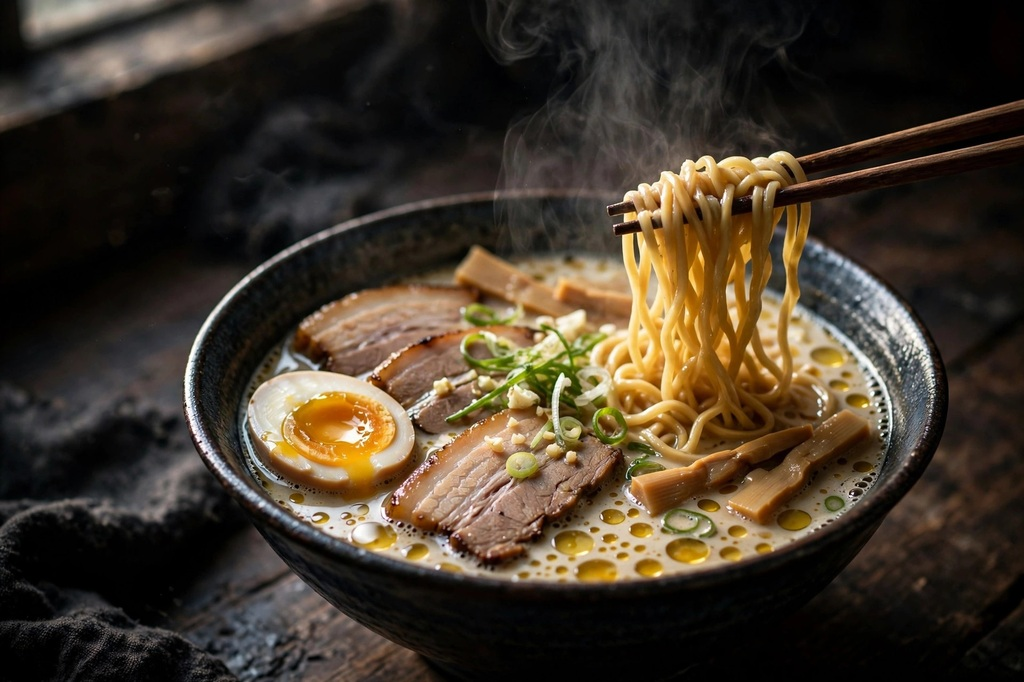
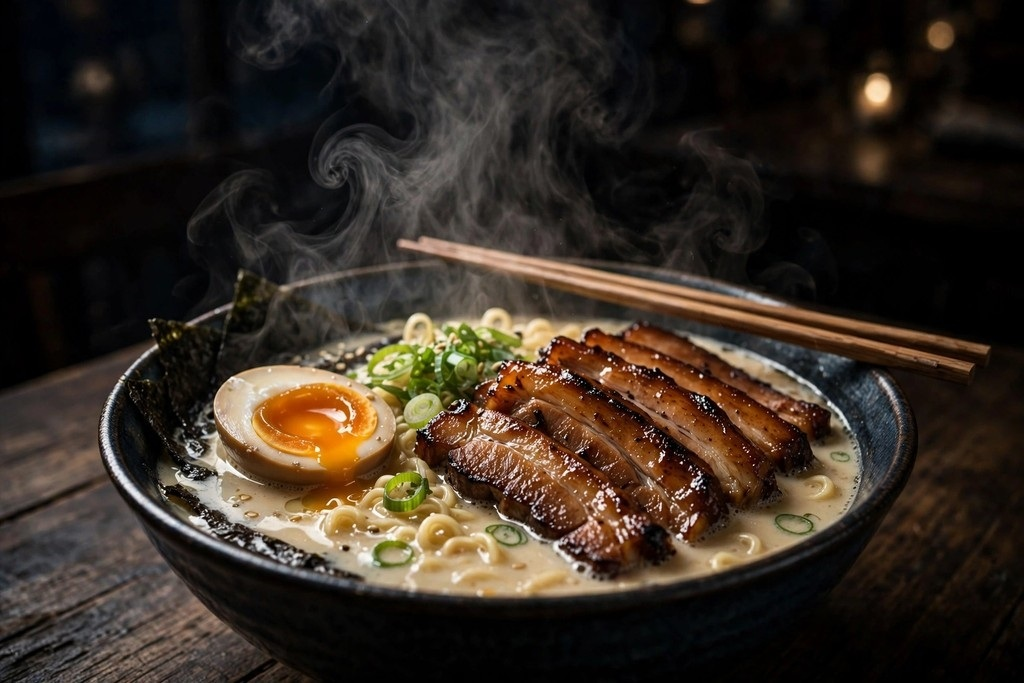
feat: richer ramen variant with chashu and runny egg

diff --git a/main.py b/main.py
@@ -1,8 +1,9 @@
 #!/usr/bin/env python3
-"""Entry for the make.fun "food-picture-01" image competition.
+"""make.fun competition entry: "food-picture-01".
 
-Ships the image bundled next to this file to the grader's writable /output
-directory. Standard library only: no network access, no third-party imports.
+Ships the ramen image bundled next to this file to the grader's writable
+/output directory, so the grader finds it at /output/entry.png.
+Standard library only: no network access, no third-party imports.
 """
 
 import os
@@ -20,24 +21,20 @@ def is_image(data):
     return data.startswith(IMAGE_SIGNATURES)
 
 
-def source_path():
-    """Absolute path of the bundled image, resolved from this file."""
+def entry_path():
+    """Absolute path of entry.png, resolved from this file via __file__."""
     return os.path.join(os.path.dirname(os.path.abspath(__file__)), IMAGE_NAME)
 
 
-def destination_paths():
-    """Candidate destinations, in order of importance."""
-    cwd = os.getcwd()
-    candidates = [
-        os.path.join(os.sep, "output", IMAGE_NAME),
-        os.path.join(cwd, IMAGE_NAME),
-        os.path.join(cwd, "output", IMAGE_NAME),
-    ]
-    ordered = []
-    for path in candidates:
-        if path not in ordered:
-            ordered.append(path)
-    return ordered
+_DESTINATION_CANDIDATES = (
+    # /output must be tried first: that is the path the grader reads the entry from.
+    os.path.join(os.sep, "output", IMAGE_NAME),
+    os.path.join(os.getcwd(), IMAGE_NAME),
+    os.path.join(os.getcwd(), "output", IMAGE_NAME),
+)
+
+# Same order as _DESTINATION_CANDIDATES, duplicates dropped.
+DESTINATIONS = tuple(dict.fromkeys(_DESTINATION_CANDIDATES))
 
 
 def write_payload(path, data):
@@ -58,7 +55,7 @@ def write_payload(path, data):
 
 def main():
     try:
-        with open(source_path(), "rb") as handle:
+        with open(entry_path(), "rb") as handle:
             data = handle.read()
     except OSError as exc:
         sys.stderr.write("cannot read %s: %s\n" % (IMAGE_NAME, exc))
@@ -68,7 +65,7 @@ def main():
         sys.stderr.write("%s is not a PNG or JPEG image\n" % IMAGE_NAME)
         return 1
 
-    written = [path for path in destination_paths() if write_payload(path, data)]
+    written = [path for path in DESTINATIONS if write_payload(path, data)]
     if not written:
         sys.stderr.write("no writable destination for %s\n" % IMAGE_NAME)
         return 1
